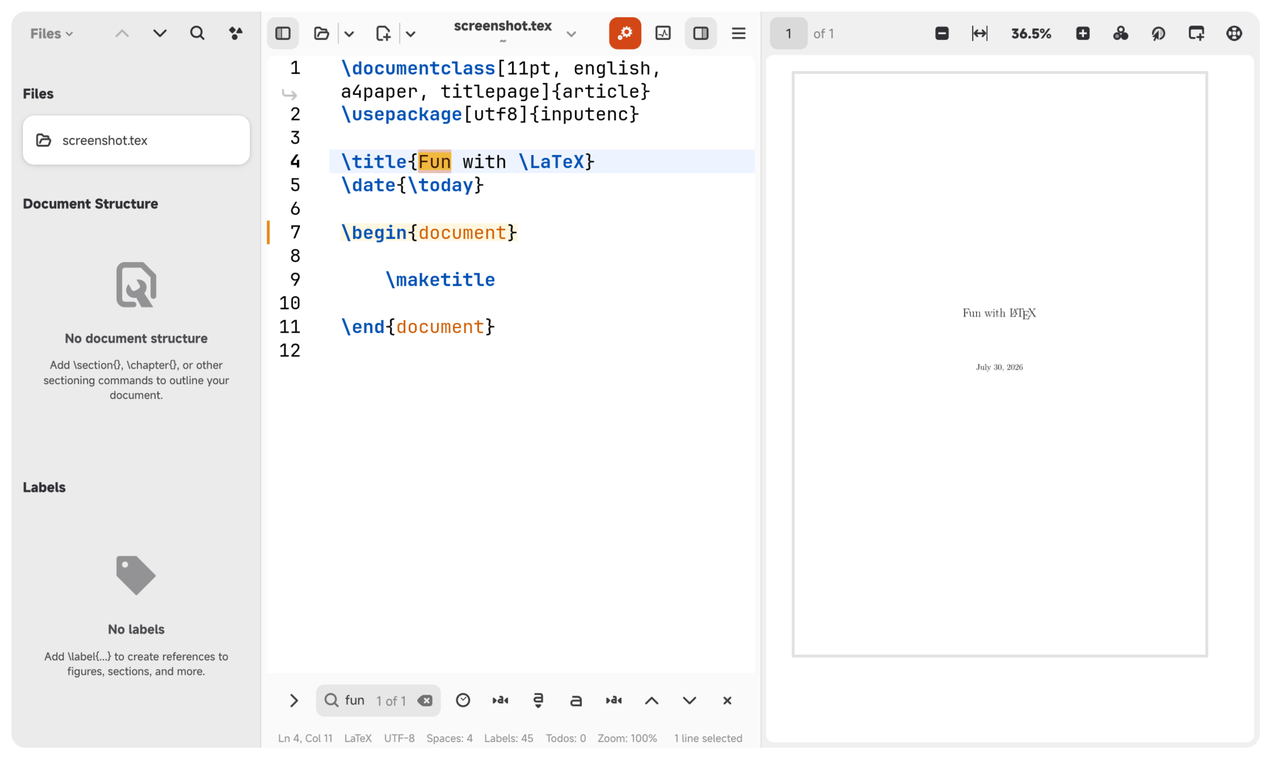
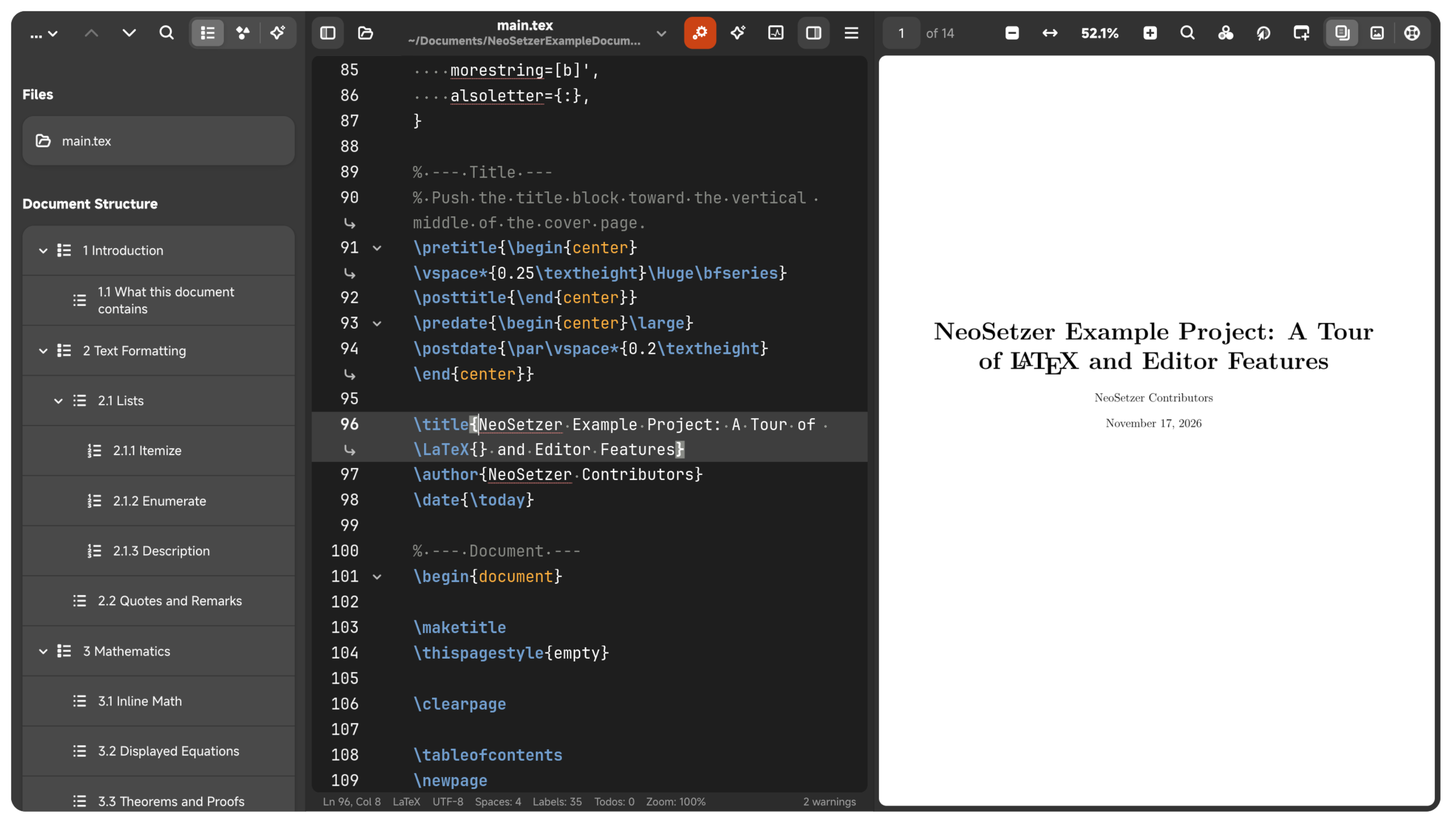
chore: 测试入册 meson，更新 CHANGELOG/CONTRIBUTING 与截图
13 个存量测试入册并注册今日新增用例，test_git_repository 改
unittest 风格；删孤儿图标 own-quotes.svg。

diff --git a/tests/python/test_git_repository.py b/tests/python/test_git_repository.py
@@ -19,6 +19,7 @@
 
 import os
 import sys
+import unittest
 
 sys.path.insert(0, os.path.join(os.path.dirname(__file__), '..', '..'))
 
@@ -31,7 +32,7 @@ from setzer.vcs.git_repository import (
 )
 
 
-class TestParseStatusPorcelain:
+class TestParseStatusPorcelain(unittest.TestCase):
 
     def test_branch_with_upstream_and_counts(self):
         output = (
@@ -72,7 +73,7 @@ class TestParseStatusPorcelain:
         assert files == []
 
 
-class TestParseLogHistory:
+class TestParseLogHistory(unittest.TestCase):
     def test_multiple_commits_in_log_order(self):
         output = ('abc1234\x1fAdd git panel\x1fAlice\x1f1700000000\n'
                   'def5678\x1fFix typo\x1fBob\x1f1690000000\n')
@@ -96,7 +97,7 @@ class TestParseLogHistory:
         assert commits[0]['timestamp'] == 0
 
 
-class TestParseNumDiff:
+class TestParseNumDiff(unittest.TestCase):
 
     def test_modified_lines(self):
         # 旧 5-7 行（3 行）替换为新 5-8 行（4 行）：全部算 modified（蓝条）
@@ -148,7 +149,7 @@ class TestParseNumDiff:
         assert marks['changed_count'] == 0
 
 
-class TestClassifyGitError:
+class TestClassifyGitError(unittest.TestCase):
     def test_missing_remote_wins_over_credentials(self):
         # 没有远程时 git 同时报 "does not appear to be a git repository" 和
         # "Could not read from remote repository"，应提示配置远程而非凭据。
@@ -165,3 +166,7 @@ class TestClassifyGitError:
     def test_unknown_output_returns_none(self):
         assert classify_git_error('something unexpected', 'push') is None
         assert classify_git_error('', 'commit') is None
+
+
+if __name__ == '__main__':
+    unittest.main()

diff --git a/CHANGELOG.md b/CHANGELOG.md
@@ -1,10 +1,41 @@
 # Changelog
 
+## v91 — 2026-11-18
+
+### 主要改进
+
+- **修复快捷键捕获与项目构建配置两处必崩**：快捷键捕获对话框按下任意键即抛 `AttributeError`——`Gtk.KEY_Escape` 常量在 GTK4 不存在（应为 `Gdk.KEY_Escape`），Preferences → Keyboard Shortcuts 的改键功能整体失效；项目构建配置的「选择根文档 / 输出目录」把 `Adw.Dialog` 当 `Gtk.Window` 传给 `Gtk.FileDialog`，点击即抛 `TypeError`——改传 `self.main_window`，并给根文档选择补上 `.tex` 过滤器。
+
+- **桌面 Action「New Document」落地**：desktop 文件补 `GenericName`、`Comment`、`StartupNotify`、`SingleMainWindow` 与 `new-document` 桌面 Action。`--new-document` 必须经 `add_main_option` 注册进 GApplication（实测未注册选项会被 `run()` 以 "Unknown option" 拒绝、整个启动失败），主实例冷启动直接新建；应用已在运行时由二次进程在 `run()` 返回后经 `org.freedesktop.Application.ActivateAction` 转交主实例（`SEND_ENVIRONMENT` 不会同步主实例 `os.environ`，环境变量转发方案不可行，已实测排除）。desktop 文件同时改走 `i18n.merge_file`，Name/GenericName/Comment/Keywords 的 7 语言翻译合并进安装产物。
+
+- **GNOME HIG 规范批次**：主窗口标题随活动文档同步到 WM（任务栏/alt-tab/读屏可见，悬浮 HeaderBar 不会自动同步）；头栏与面板工具栏按钮恢复键盘可达（删除按钮级 `set_can_focus(False)`，Tab 现在能进入头栏）；汉堡菜单收尾段重排为 HIG 标准的 Preferences → Keyboard Shortcuts → Help → About，新增 Help 项（行为与 F1 完全一致）；`About` → `About NeoSetzer`、`Save Document` → `Save`；项目查找替换弹窗自建 HeaderBar（单一关闭入口，Preview 降级 flat 图标）；include-latex-file 路径类型切换迁移 `Adw.ToggleGroup`；快捷键窗口补录 Print/书签/多光标/AI 等 13 个已注册却未列出的快捷键并统一 sentence case；`select_all` 死配置显式注册（此前改绑形同虚设）；快捷键冲突检测补上 F3/Ctrl+L/Ctrl+Y/Insert 等固定键——此前绑上去改了却不生效且无任何警告。
+
+- **「非必要不打扰」落地**（docs/ui-guidelines.md 新增打扰阶梯：状态栏 > Banner > Toast > AlertDialog > 模态）：自动构建（任何引擎）的成功/失败 toast 一律静默——按钮区常驻 Success!/Failed(N)! 与行内波浪线已是完整反馈，成功仅在从已播报失败恢复时补一条，手动构建失败保留 toast；删除 6 处例行成功 toast（导出 PDF、导出工程包、创建示例项目、添加包建议、git init、保存构建日志——文件选择器关闭/面板切换/内容变化本身即确认）；打印失败从模态 AlertDialog 降为节流 toast；全局异常弹窗 30s 节流，后台线程异常风暴不再连环堆叠模态框；保存失败与字体钳制 toast 走 `helpers.toast` key 节流；通知性 AlertDialog 的泛化 OK 标签改动词短语，语言重启对话框默认响应改安全侧 Cancel，Reset all 补 destructive 外观，git 初始化/信任对话框补安全默认响应。
+
+- **测试套件补全**：13 个已提交却从未注册进 meson 套件的测试文件（AI 批注、git 仓库、标签页集成等）全部入册；`test_git_repository.py` 从 pytest 风格类转为 `unittest.TestCase`（此前在 unittest 套件里是哑文件），18 个用例复活。套件现为 129 个 python 测试模块 + 2 个桌面元数据校验器。
+
+- **metainfo 与静态检查**：补 release 84–90 七条（此前软件中心只显示到 83）并将全部日期零填充为 ISO 8601；新增 `<icon>` 与 `<categories>`（后者是 `appstreamcli --pedantic` 在有 `<icon>` 时的硬性要求）；`ruff check .` 全仓清零（含 `setzer.in` 既有的 cairo noqa 标注、死导入与死赋值）；删除偏好页 Gtk.CheckButton 时代的 6 个无调用者处理器；向导 Back 按钮降级 flat 图标。
+
+### Improvements
+
+- **fix**: Shortcut capture no longer crashes on any keypress (`Gtk.KEY_Escape` → `Gdk.KEY_Escape`); Preferences → Keyboard Shortcuts rebinds work again.
+- **fix**: Project build configuration's root-document / output-directory pickers pass the main window (not the `Adw.Dialog`) to `Gtk.FileDialog`, and root-document selection is filtered to `.tex` files.
+- **feat**: Desktop Action "New Document" — the desktop file gains GenericName, Comment, StartupNotify, SingleMainWindow and a `new-document` action. `--new-document` is registered via `add_main_option` (unregistered options are rejected by `GApplication.run()`, verified); a cold start creates the document directly, and when the app is already running the second process forwards the app action over `org.freedesktop.Application.ActivateAction` (`SEND_ENVIRONMENT` does not propagate into the primary's `os.environ` — ruled out empirically). The desktop file is installed through `i18n.merge_file`, merging all seven translations of Name/GenericName/Comment/Keywords.
+- **refactor**: GNOME HIG sweep — the window title now syncs with the active document; header-bar and panel toolbar buttons are keyboard-reachable again; the primary menu's end matter is Preferences → Keyboard Shortcuts → Help → About with a new Help item; the project search & replace dialog builds its own HeaderBar (single close entry, flat icon Preview); the include-latex-file path-type switcher moved to `Adw.ToggleGroup`; the shortcuts window lists 13 previously missing registered shortcuts in sentence case; the dead `select_all` setting is actually registered; shortcut conflict detection now also guards fixed keys (F3 / Ctrl+L / Ctrl+Y / Insert) that could silently shadow a rebind.
+- **refactor**: "Don't interrupt unless necessary" (docs/ui-guidelines.md gains an interruption ladder) — build result toasts are silent for auto-builds on every engine (recovery from an announced failure still announces; manual build failures keep their toast); six routine success toasts removed (PDF export, project package export, example project, package suggestions, git init, build log save); printing failure demoted from a modal alert to a throttled toast; the global exception dialog is throttled (30 s) so background-thread exception storms no longer stack modals; save-failure and font-clamp toasts go through the keyed throttle; generic "OK" alert labels become verb phrases, the restart dialog defaults to Cancel, Reset gains the destructive appearance, and the git init / trust dialogs get safe default responses.
+- **docs**: metainfo gains releases 84–90 with ISO 8601 dates, an `<icon>` tag and `<categories>` (the latter is required by `appstreamcli --pedantic` once an `<icon>` is present); `ruff check .` is clean repo-wide; six dead Gtk.CheckButton-era preference handlers removed; the wizard Back button is now a flat icon button.
+- **test**: 13 previously committed but unregistered test files are now part of the meson suite (AI annotations, git repository, tab integration, …); `test_git_repository.py` was converted from pytest-style classes (silent no-ops under the unittest runner) to `unittest.TestCase`, reviving 18 cases. Suite now runs 129 python test modules + 2 desktop metadata validators.
+- **i18n**: po synced across all seven languages; desktop entries now merge translations at install time.
+
+---
+
 ## v90 — 2026-11-18
 
 ### 主要改进
 
 - **内嵌 Agent 终端**：AI Agent 终端新增内嵌形态——基于 VTE 的终端卡片，圆角与边距与整体设计统一，显示状态持久化到设置，关闭应用时停止 Agent 会话子进程避免资源泄露。Debian 包新增推荐依赖 `gir1.2-vte-3.91`，文档补充 VTE 跨平台兼容策略，Windows 便携包注明内嵌终端不可用时的自动回退行为。独立 Agent 终端窗口同步改为单层标题栏：agent 名与会话状态写进 `Adw.WindowTitle`（标题/副标题），结束会话、新会话、收回侧栏三个按钮并入 HeaderBar 右侧，内容区不再单独占一行的迷你工具栏，收回侧栏时复原。
+
+- **AI 编辑后的 PDF diff 显示（PhiTeX session compare）**：三个 AI 发送入口（批注 / Build Log Fix / 顶栏终端按钮，统一走 `workspace.snapshot_ai_baseline`）发送时快照正文到 `.neosetzer/ai-baseline/`；PhiTeX 增量构建成功后若正文相对快照有变，后台线程跑 `phitex session compare <快照> --json`——复用常驻 watch 的 JOB-diff 旁路构建（首跑 prime 后每轮代价≈一次编辑），latexdiff 标记排版 PDF 与每个 change 的页码/矩形（PhiTeX 字形 origins 直接给出）一次拿到。完成后弹一条 toast 通知「AI 已编辑此文档：N 处改动」（带「查看 Diff」动作按钮，5 秒窗口内合并 agent 的多轮结果；不用横幅是因为可重复查看的入口已经由档位持久表达，而 agent 逐轮迭代时横幅会反复把整块 PDF 往下推）；切换查看 diff 排版走预览工具栏分段控件新增的 diff 档——与结果同生命周期（有结果才出现，结果清掉即消失），按 name 而非索引定位以免增删档位后错位，help 面板那组同款控件一并改为 name 定位；diff 视图以覆盖方式加载 diff PDF，不碰构建状态与外部 PDF 监控，切走再切回结果仍在；零改动的 compare 结果（只动注释/空白）不亮档位也不通知；因 bbox 是 diff PDF 的坐标（插入会推移正式 PDF 的页面），高亮画在 diff 视图而非正式 PDF——按 add 绿 / del 红 / change 琥珀 fill+stroke 持久高亮（复用预览 device 叠层管线，固定 alpha 不淡出），点击矩形弹窗显示前后文本。状态机用 Document 脏行（只记真实键入，磁盘重载/撤销不算）区分用户手改与 agent 磁盘编辑：用户一改就结束本轮审阅（AI+用户混合 diff 会误导），agent 连续编辑期间每轮重载送来渐进 diff；同一正文不重复 compare，自动构建连跑只查一次。需 phitex ≥ 1.0.3（`session compare` 子命令，启动时版本探测），旧版/其他引擎静默不做；偏好新增「以 Diff 预览显示 AI 编辑」开关。附 54 个单测（JSON 解析 / bbox→矩形坐标换算 / 门控状态机 / 分段档位模式切换 / 接线守护）。
 
 - **Git 面板改版：侧栏线性历史，提交与推送拆分为独立操作**：`GitRepository` 新增 `parse_log_history()`，refresh 时一次 `git log` 同时提供最近提交与历史，并新增 git remote 探测；写操作拆分为 `commit()`（add → commit）与 `push()`（无 upstream 时自动 `--set-upstream`，不再写死 origin），移除 commit_and_push。侧栏 Git 面板改 Gtk.Stack 双模式（仓库 / 未初始化）：Pull · Commit · Push 三按钮，历史列表沿用侧栏 boxed-list + ActionRow 范式；无仓库时提供快捷 `git init`（确认对话框含完整路径，自建仓库自动记为已信任，不再重复弹信任确认）；Push 仅在「有远程且领先或未建 upstream」时可点，Pull 仅在已有 upstream 时可点，tooltip 说明原因；错误分类先判缺远程，避免误报凭据问题；提交对话框只提交（顺带修掉原先误显示的 "Commit && Push" 双 &）。空状态统一 Adw.StatusPage，未初始化仓库占位改用新增的 xsi-git-symbolic 图标。
 
@@ -28,11 +59,16 @@
 
 - **修复 AI 空工具列表时自动回退内置预设**：异常落盘或旧实例回写可能导致工具列表为空，工具选择阶段检测到空列表时回退默认内置预设，偏好设置中空列表时自动保存默认工具配置，保证不返回 None；顺带修正页面标签取消固定状态时的接口调用。
 
+- **AI Agent 适配 pi 与 Codebuddy CLI，新增内置工具升级补全**：pi 内置预设此前已在列表里，但从未对过真实 CLI——本次用本机 pi 1.1.0 把两条链路实测并回填核实记录：有头模板 `pi -- "{prompt}"` 中 `--` 结束选项解析，其后位置参数即初始 message，TUI 打开即自动提交，多行不会逐行误拆；内嵌终端多行注入依赖的 bracketed paste pi TUI 自身开启（ESC[?2004h），批注 prompt 按单条消息处理，裸启动 `pi` 即进交互 TUI。新增 Codebuddy 内置预设：本机 CodeBuddy Code 2.184.0 实测 `codebuddy "{prompt}"` 位置参数即初始 prompt（与 claude 同款），首次进目录弹信任确认（回车选默认「Trust folder only」），确认后初始 prompt 自动发送、TUI 开启 bracketed paste，别名 cbc 同用法。发送/会话机制（模板渲染、bracketed paste 注入、信任门、预览确认）本就工具无关，无需改动。真正的缺口在升级路径：ai_fix_tools 一旦持久化就会被原样读回，旧版本 settings.json 升级后永远看不到后来加入内置清单的工具（内置预设又不可经 UI 删除，用户只能整体重置）——现在加载时按内置清单补齐缺失项，同名以已保存版本为准（不覆盖用户改过的模板），自定义工具与顺序不动，无变更不落盘，与此前的「空列表自愈」互补。附预设形态与补全行为的回归测试。
+
+- **反查跳转边界加固**：反查在后台线程查 synctex（≤5s 超时）后经 idle 投递，期间预览所属文档可能已被关闭——僵尸对象不再被 `set_active_document`（否则活动文档指向已关闭的标签页），落到按文件名重开/激活的分支（文件还在就重开并定位，没了就静默忽略）；同文件分支补 `build_system` 判空（会话恢复的轻量文档尚未挂工具链时仍切页 + 滚动，与跨文件分支对称）；路径比较升级 normcase（Windows 大小写盘符）+ realpath（symlink 段），synctex 返回链接形式路径时不再把已打开的文件开出第二个标签页；synctex 查询失败（无 .synctex.gz / 超时 / 解析不出）不再发 synctex_backward——独立预览窗口监听该码 present 主窗口，没有落点就不该抢焦点。synctex 1.5 实测 Input 恒为绝对路径（可能带 `./` 段，gz 复制到独立缓存目录后经 -d 查询仍按编译目录解析），以真实输出 fixture 钉住契约。附 8 例跳转/投递与 2 例解析契约单测；补注册 test_synctex_edit_parse / test_preview_target_document / test_source_blocks 三个存量未注册测试。
+
 - **翻译**：修复 zh_CN 约 100 条挂错 msgid 的译文（「PDF exported to」译成「无法打开」、「Toggle Fullscreen」译成「切换预览」、「Graphics」译成「书写体」等），含被截断成单词的 tooltip、丢失第二段（Article/Beamer 类说明）与丢失 {} 占位符的条目；转义损坏 8 条（fr « \nocite »、it 「\\n」被 gettext 解析成换行、zh_CN 6 条 \ref/\todo/\textwidth 解析成 CR/TAB）改为正确转义；补译 Agent 终端 7 条 × 7 语言，术语与各语言既有译法对齐；恢复丢失的助记符（de _Anwenden 等）；7 种语言全部达 100%。源码侧：向导 margin tooltip 运行时拼接改 {title} 模板（原译文永不生效），search 绕回提示的中文 msgid 改英文，occurence 拼写修正。
 
 ### Improvements
 
 - **feat**: Embedded AI agent terminal — a VTE-based inline terminal card with unified rounded styling, persisted visibility, and the Agent session subprocess stopped on app close. Debian gains a `gir1.2-vte-3.91` recommendation; the Windows portable package documents the automatic fallback when the inline terminal is unavailable. The standalone agent window switches to a single-layer headerbar: agent name and session state live in `Adw.WindowTitle`, with stop-session / new-session / retract buttons packed into the HeaderBar.
+- **feat**: PDF diff display for AI edits via `phitex session compare` — the three AI send paths snapshot the document into `.neosetzer/ai-baseline/`; after a PhiTeX live build with changes on disk, a background compare (the watch's own JOB-diff fork, incremental per round) yields a latexdiff-typeset PDF plus each change's page and bbox straight from PhiTeX's glyph origins. A toast reports the change count with a "Show Diff" action (throttled over 5 s so iterating agents do not stack notifications; no banner — the persistent affordance is the segment, and a banner would shove the whole page down on every round) — switching is a new diff segment in the preview toolbar, living and dying with the result and addressed by toggle name rather than index so adding/removing it cannot shift the other segments (the help panel's twin switch was converted the same way); it loads the diff PDF as an override (the build pipeline and the external-PDF monitor keep watching the real PDF), leaving and returning keeps the result, and a compare with zero changes (comments/whitespace only) neither shows the segment nor notifies, changes are highlighted persistently in the diff view (add green / del red / change amber, device-overlay pipeline, fixed alpha), and clicking a highlight opens a before/after dialog. Since bboxes live on the diff PDF's pages, highlights draw in the diff view, not the result PDF. The state machine distinguishes user typing (buffer dirty lines, which exclude disk reloads and undo) from agent disk edits: any user keystroke ends the review round, agent edit bursts stream progressive diffs, and the same text is never compared twice. Needs phitex ≥ 1.0.3 (the `session compare` subcommand, probed at startup) and is silently inert otherwise; new "Show AI edits as a diff preview" preference. Adds 54 unit tests (JSON parsing / bbox→rectangle conversion / gating state machine / segment mode switching / wiring guards).
 - **feat**: Git panel overhaul — the sidebar shows linear history and commit/push are split into independent operations. `GitRepository` parses history in one `git log` and detects remotes; `commit()` (add → commit) and `push()` (auto `--set-upstream` instead of hardcoding origin) replace commit_and_push. The panel is a dual-mode `Gtk.Stack` (repository / uninitialized) with Pull · Commit · Push buttons whose sensitivity explains itself via tooltips (Push needs a remote and being ahead or missing an upstream; Pull needs an upstream), a boxed-list history, quick `git init` with a path-confirming dialog (self-created repos are auto-trusted), error classification that checks for a missing remote before suspecting credentials, and a commit dialog that only commits (also fixing the bogus "Commit && Push" label). New xsi-git-symbolic icon for uninitialized repos.
 - **feat**: Turning "Enable AI agent" off now removes every AI entry point from the UI immediately (no restart) instead of graying them out — the top-bar open-in-terminal button, the sidebar AI tab, Build Log Fix All / fix-line buttons and the source/PDF context-menu annotation sections; an open standalone agent window retracts, shortcuts and command-palette actions fail silently, and session restore no longer lands on the AI page. New `availability.py` as the single query point; since `Adw.Toggle` has no set_visible, tab visibility uses ToggleGroup remove/add with the notify loop suppressed.
 - **fix**: PDF click targeting rebuilt on glyph-based visual rectangles — synctex forward boxes are unreliable for tabular/display math (misplaced line boxes, last-line records bleeding into following paragraphs, no records for math content) and edit reverse lookups often land on neighboring blocks. Glyph boxes are grouped into lines and flood-expanded into a visual band (vertical gap ≤ 10 pt, horizontal overlap); the source block is attributed by sequential stepping from the nearest reliable anchor line above the band, falling back to the reverse-lookup line and spatial degradation. Plain body-text clicks snap to the source paragraph when no visual block claims the band; anchor validation and geometric scanning exclude no-output lines such as `\label`, whose view records are full-page mega-boxes that derail stepping; the spatial fallback only accepts stepping-matched candidates instead of guessing. Adds 22 unit tests.
@@ -44,6 +80,8 @@
 - **fix**: Two pixel-level preview fixes — fractional-scale (e.g. 1.664×) selection highlights are rasterized into a device surface sharing the page texture's exact int(css)/scale mapping, fixing misalignment that drifted with the page number; the drawing side uses the scroll viewport width, removing a 6 px horizontal hit-testing offset caused by the preview card margins.
 - **refactor**: Multi-line text inputs are unified into one rounded card component (AI annotation popover, send-to-agent dialog, snippet editor, BibTeX fields, wizard address lines, insert-table/matrix LaTeX previews, find-replace preview); the AI preset dropdown becomes a Gtk.MenuButton matching the document-structure menus; headerbar fallback height 46 → 47 px, the AI page drops its top margin, and the new-session button gets a chat-message-new icon.
 - **fix**: An empty AI tool list (from a corrupted settings write or an old instance) now falls back to the built-in default preset and saves it automatically.
+- **feat**: The pi coding agent and Codebuddy CLI are verified as first-class AI agents. pi's headed template `pi -- "{prompt}"` passes the prompt as the initial message after `--`, which the TUI submits automatically (verified against a real pi 1.1.0), and pi's TUI enables bracketed paste — so the embedded terminal's multi-line annotation prompts arrive as one message instead of line-by-line submits; bare `pi` enters the interactive TUI. A new Codebuddy built-in preset ships too: `codebuddy "{prompt}"` passes the prompt positionally (claude-style; verified against CodeBuddy Code 2.184.0, which shows a first-run-per-directory trust dialog — Enter picks the default "Trust folder only" — then auto-submits the initial prompt with bracketed paste enabled; `cbc` works the same). The send/session machinery is tool-agnostic and needed no changes. The real gap was the upgrade path: once persisted, `ai_fix_tools` is loaded verbatim, so a settings.json written by an older version never received built-in presets added later (built-ins cannot be deleted via the UI, leaving users to reset everything). Missing built-ins are now appended at load time — user-edited templates win by name, custom tools and ordering are untouched, and nothing is written back unless something changed. Adds regression tests for the preset shapes and the merge behavior.
+- **fix**: Reverse-sync edge cases hardened. The reverse lookup queries synctex in a background thread (≤5 s timeout) and delivers via idle, so the previewed document can be closed meanwhile: a zombie document is no longer activated (the active document would point at a closed tab) — the file is instead reopened/activated by name (silently ignored if it no longer exists). The same-file branch now guards `build_system` like the cross-file branch (session-restored lightweight documents still switch and scroll without positioning). Path comparison upgrades to normcase (Windows case variants) plus realpath (symlink segments), so a link-form synctex result no longer opens a duplicate tab for an already-open file; and a failed synctex query (missing .synctex.gz / timeout / unparsable) no longer emits `synctex_backward`, which the detached preview window listens to for presenting the main window — no focus steal without a landing point. Verified against real synctex 1.5 that Input is always absolute (possibly with `./` segments, resolved against the compile directory even when the gz sits in a separate cache directory via `-d`), pinned by a real-output fixture. Adds 8 jump/delivery unit tests and 2 parse-contract tests, and registers three previously unregistered test files (test_synctex_edit_parse / test_preview_target_document / test_source_blocks).
 - **i18n**: Fixed ~100 zh_CN translations attached to the wrong msgid (e.g. "PDF exported to" translated as "unable to open", "Toggle Fullscreen" as "switch preview"), 8 broken escapes (fr/it/zh_CN `\n`, `\ref` parsed as newline/control characters), translated the agent-terminal strings in all seven languages (now 100%), restored lost mnemonics, and templated a wizard tooltip whose runtime concatenation made translations never apply.
 
 ---

diff --git a/CONTRIBUTING.md b/CONTRIBUTING.md
@@ -31,6 +31,19 @@ ruff check .
 - `_` / `ngettext` 翻译函数由 `setzer.in` 启动时注入 builtins（`builtins._ = trans.gettext`），各模块直接使用属正常写法，勿改成逐文件 import——那会破坏「界面语言偏好优先于系统语言」的机制；
 - 各包 `__init__.py` 里的导入是有意转出口，供其他模块短路径 import。
 
+### 测试
+
+```bash
+meson test -C builddir
+```
+
+两条硬约定（都源于真实事故）：
+
+- **新测试文件必须注册进 `tests/python/meson.build` 的条目表**。`meson test` 只运行已注册的文件——未注册的文件即使提交了也永远不会被执行（历史上曾累计 13 个这样的文件）。
+- **用 `unittest.TestCase` 风格**。套件以 `python3 -m unittest` 运行，pytest 风格的普通类 + `test_` 方法装载不到任何用例、静默跳过（曾因此埋没 `test_git_repository.py` 的 18 个用例）。
+
+测试在无显示环境下运行：GTK 强耦合的逻辑用 `load_method` 按需抽取方法 + 桩命名空间的方式测（范例：`test_frequent_build_ui_feedback.py`），不要在模块级实例化 widget。
+
 ### 翻译文件 diff 优化
 
 `sync-po.sh` 会重排 po 条目并刷新行号引用，导致 `git diff` 展示数千行噪音。
